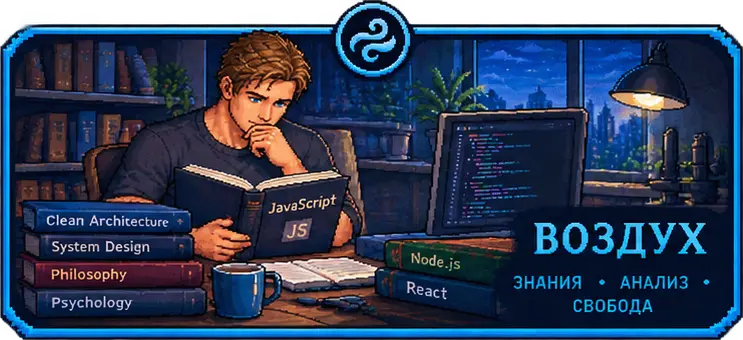
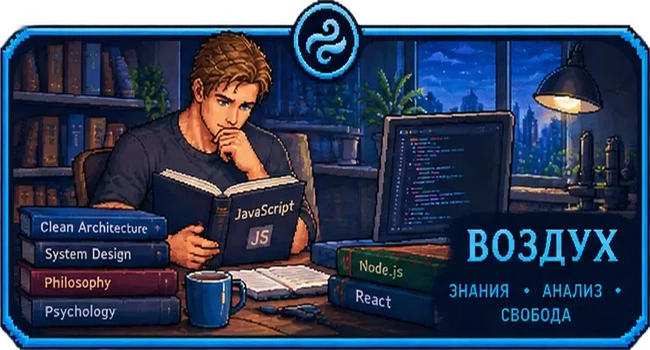
Resize path images

diff --git a/components/path-client.tsx b/components/path-client.tsx
@@ -63,7 +63,7 @@ export default function PathClient() {
     <div className="space-y-5">
       {/* Иллюстрация текущего состояния пути: кроссфейд в контейнере стабильной пропорции */}
       <div
-        className="relative mx-auto aspect-[400/580] w-full"
+        className="relative mx-auto aspect-[650/350] w-full"
         aria-live="polite"
       >
         {PATH_IMAGES.map(({ key, src, alt }) => (
